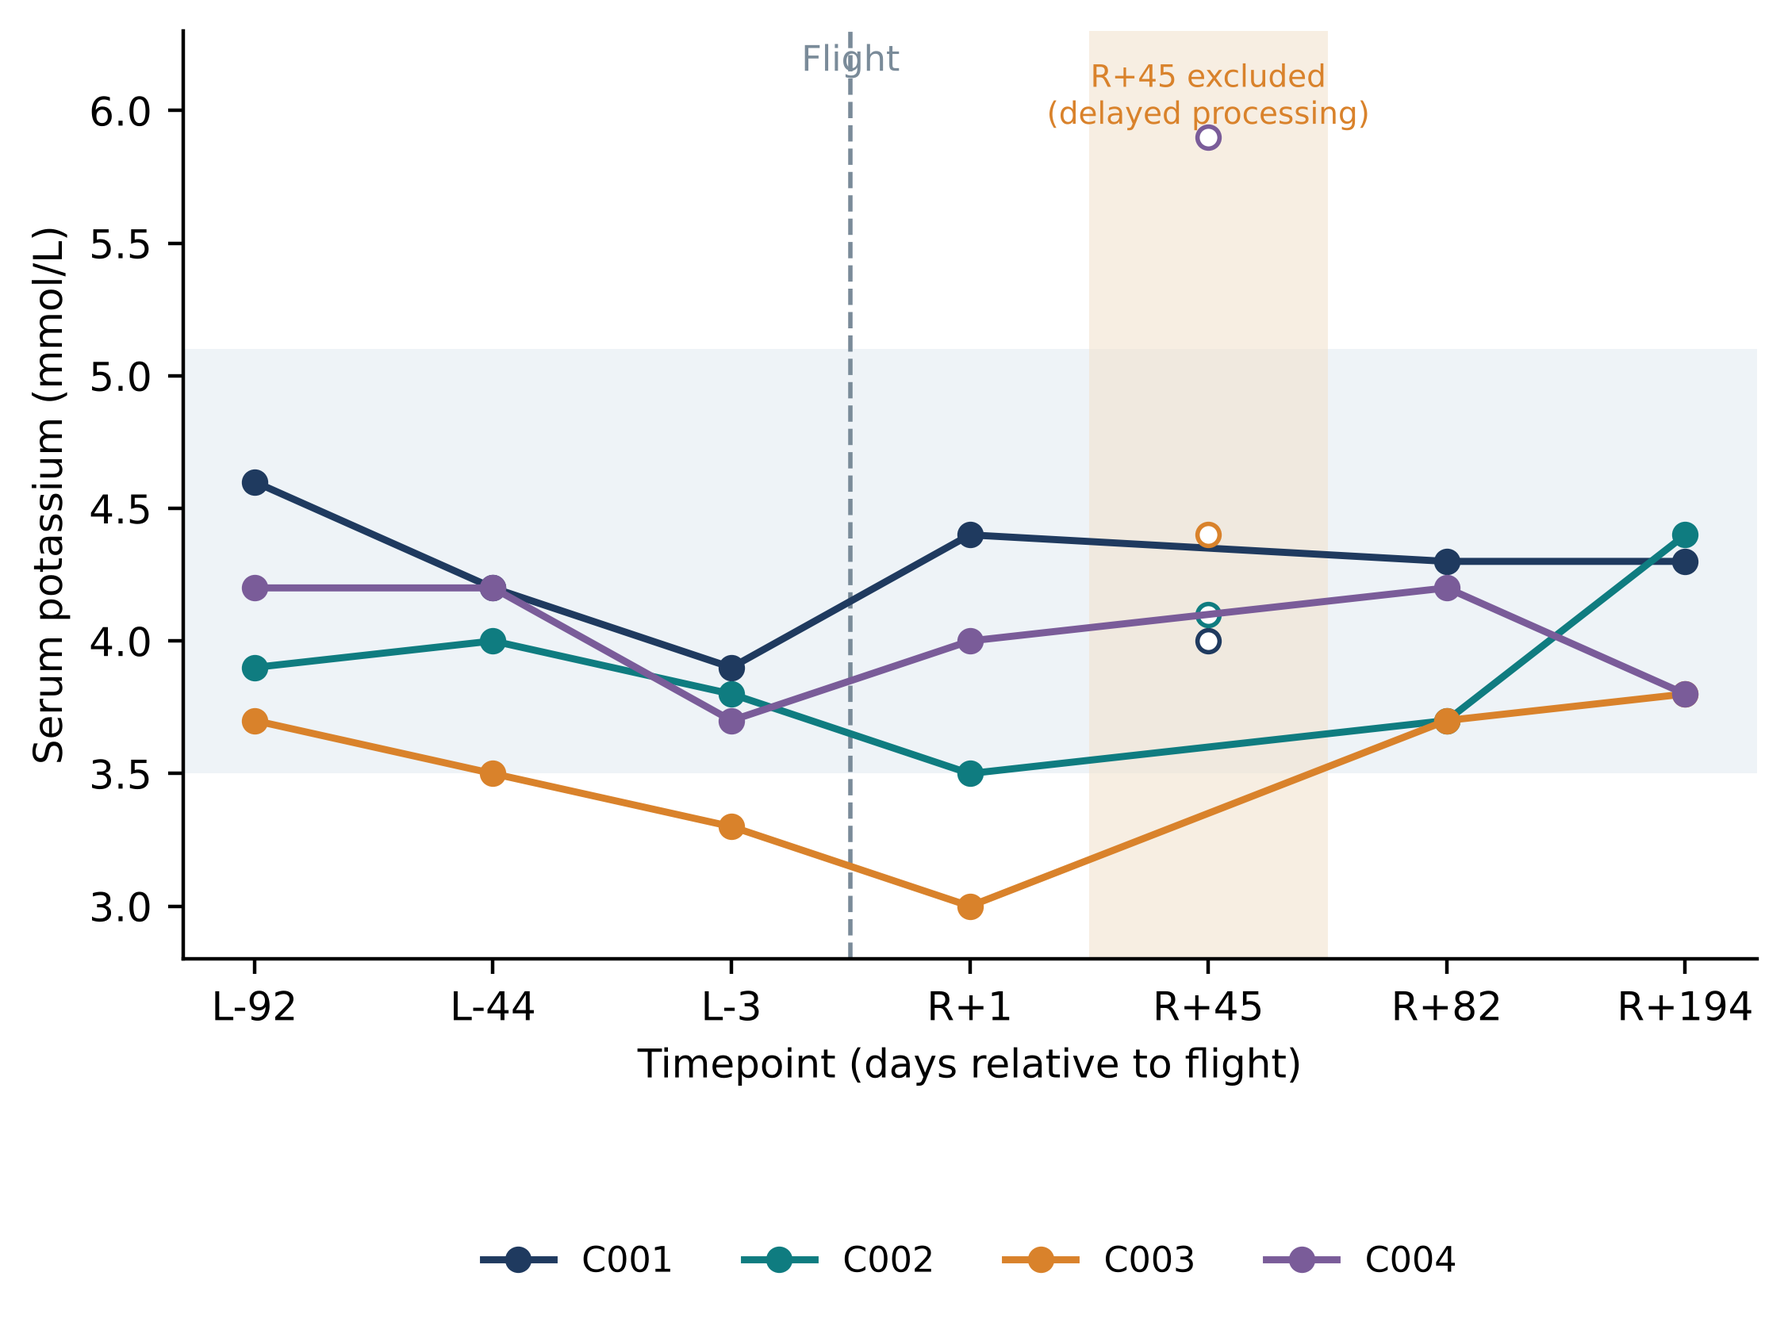
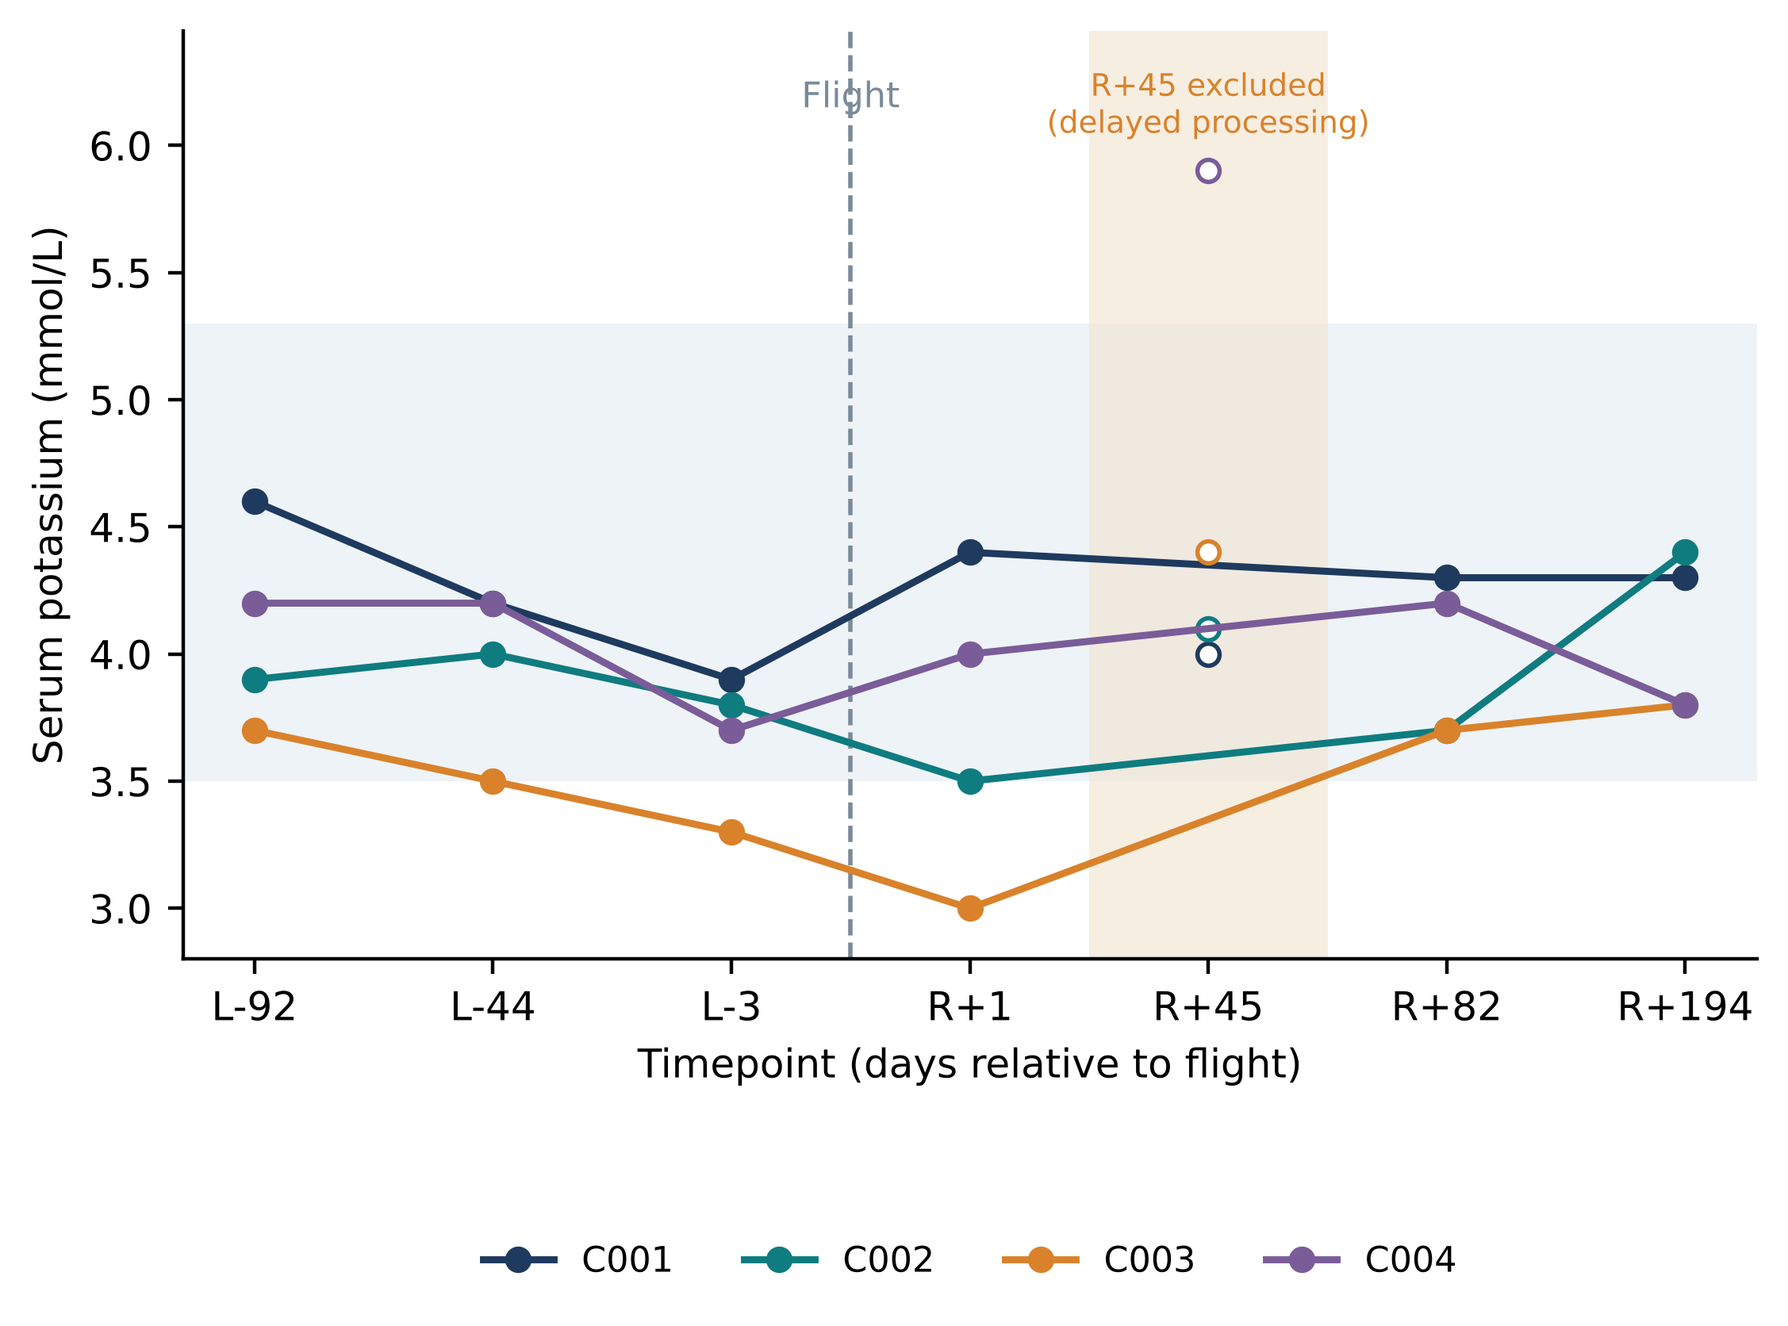
Restrict analysis to the metabolic panel (OSD-575)
Remove NLR and eosinophils (blood count, OSD-569); Holm correction now
across four secondary markers (sodium, chloride, bicarbonate, glucose).
Update title, README, figures and results to match the revised preprint.

Claude-Session: https://claude.ai/code/session_012WKFrLqt4DRjGpV9YDzkto

diff --git a/code/figures.py b/code/figures.py
@@ -20,11 +20,11 @@ def save(fig, name):
 # ---------- Figure 1: hypothesis schematic ----------
 def fig1(lang):
     T = {"en": dict(stress="Acute flight\nstress\n(launch, re-entry,\nreadaptation\nto gravity)", ald="Aldosterone", cor="Cortisol", cat="Catecholamines",
-                    k="Serum potassium\n(primary outcome)", na="Sodium, chloride,\nbicarbonate", glu="Glucose", imm="NLR, eosinophils",
+                    k="Serum potassium\n(primary outcome)", na="Sodium, chloride,\nbicarbonate", glu="Glucose",
                     note="Hormones were not measured in the open dataset: each arm is assessed through its laboratory markers.",
                     a1="renal K⁺ excretion", a2="β2 shift of K⁺ into cells"),
          "es": dict(stress="Estrés agudo\ndel vuelo\n(lanzamiento,\nreentrada,\nreadaptación\na la gravedad)", ald="Aldosterona", cor="Cortisol", cat="Catecolaminas",
-                    k="Potasio sérico\n(desenlace\nprincipal)", na="Sodio, cloro,\nbicarbonato", glu="Glucosa", imm="INL, eosinófilos",
+                    k="Potasio sérico\n(desenlace\nprincipal)", na="Sodio, cloro,\nbicarbonato", glu="Glucosa",
                     note="Las hormonas no se midieron en los datos abiertos: cada vía se evalúa con sus marcadores de laboratorio.",
                     a1="excreción renal de K⁺", a2="paso de K⁺ a las células (β2)")}[lang]
     fig, ax = plt.subplots(figsize=(7.2, 3.9)); ax.axis("off"); ax.set_xlim(0, 10); ax.set_ylim(0, 5.4)
@@ -39,11 +39,10 @@ def fig1(lang):
     box(6.6, 2.0, 2.3, 1.35, T["k"], "#EEF3F7", tc=NAVY, fs=8.5)
     ax.add_patch(FancyBboxPatch((6.6, 2.0), 2.3, 1.35, boxstyle="round,pad=0.02,rounding_size=0.15", fc="none", ec=NAVY, lw=1.6))
     arr(5.3, 4.05, 6.7, 3.15, TEAL); ax.text(6.02, 3.42, T["a1"], fontsize=6.8, color=TEAL, ha="center", rotation=-33, bbox=dict(fc="white", ec="none", pad=0.5))
-    arr(5.3, 1.1, 6.7, 2.25, GREY); ax.text(6.0, 1.82, T["a2"], fontsize=6.8, color=GREY, ha="center", rotation=38, bbox=dict(fc="white", ec="none", pad=0.5))
+    arr(5.3, 1.1, 6.7, 2.25, GREY); ax.text(5.85, 1.45, T["a2"], fontsize=6.8, color=GREY, ha="center", rotation=38, bbox=dict(fc="white", ec="none", pad=0.5))
     box(6.6, 4.05, 2.3, 0.75, T["na"], "white", tc=TEAL, fs=8, bold=False); ax.add_patch(FancyBboxPatch((6.6, 4.05), 2.3, 0.75, boxstyle="round,pad=0.02,rounding_size=0.15", fc="none", ec=TEAL))
     arr(5.3, 4.4, 6.6, 4.4, TEAL)
     box(6.6, 0.45, 1.05, 0.75, T["glu"], "white", tc=ORANGE, fs=8, bold=False); ax.add_patch(FancyBboxPatch((6.6, 0.45), 1.05, 0.75, boxstyle="round,pad=0.02,rounding_size=0.15", fc="none", ec=ORANGE))
-    box(7.8, 0.45, 1.85, 0.75, T["imm"], "white", tc=ORANGE, fs=7.6, bold=False); ax.add_patch(FancyBboxPatch((7.8, 0.45), 1.85, 0.75, boxstyle="round,pad=0.02,rounding_size=0.15", fc="none", ec=ORANGE))
     arr(5.3, 2.5, 6.9, 1.2, ORANGE)
     ax.text(5.0, 0.02, T["note"], ha="center", fontsize=7, color=GREY, style="italic")
     save(fig, f"Fig1_hypothesis_{lang}")
@@ -53,29 +52,29 @@ def fig2(lang):
     L = {"en": dict(y="Serum potassium (mmol/L)", x="Timepoint (days relative to flight)", excl="R+45 excluded\n(delayed processing)", flight="Flight", pre="Preflight", ret="Return"),
          "es": dict(y="Potasio sérico (mmol/L)", x="Momento (días respecto al vuelo)", excl="R+45 excluido\n(procesamiento tardío)", flight="Vuelo", pre="Prevuelo", ret="Regreso")}[lang]
     fig, ax = plt.subplots(figsize=(6.4, 3.8))
-    ax.axvspan(3.5, 4.5, color="#F3E3D0", alpha=0.6, lw=0); ax.text(4.0, 5.95, L["excl"], ha="center", fontsize=7, color=ORANGE)
+    ax.axvspan(3.5, 4.5, color="#F3E3D0", alpha=0.6, lw=0); ax.text(4.0, 6.05, L["excl"], ha="center", fontsize=7, color=ORANGE)
     ax.axvline(2.5, color=GREY, ls="--", lw=1); ax.text(2.5, 6.15, L["flight"], ha="center", fontsize=8, color=GREY)
-    ax.axhspan(3.5, 5.1, color="#EEF3F7", lw=0, zorder=0)
+    ax.axhspan(3.5, 5.3, color="#EEF3F7", lw=0, zorder=0)
     for c, g in d.groupby("crew"):
         g = g.set_index("timepoint").reindex(ORDER)
         xs = [X[t] for t in ORDER]; ys = g["potassium"].values
         ok = [t != "R+45" for t in ORDER]
         ax.plot([x for x, k in zip(xs, ok) if k], [y for y, k in zip(ys, ok) if k], "-o", color=CREW_COL[c], lw=1.6, ms=5, label=c)
         ax.plot(X["R+45"], g.loc["R+45", "potassium"], "o", mfc="white", mec=CREW_COL[c], ms=5)
-    ax.set_xticks(range(7)); ax.set_xticklabels(ORDER); ax.set_ylabel(L["y"]); ax.set_xlabel(L["x"]); ax.set_ylim(2.8, 6.3)
+    ax.set_xticks(range(7)); ax.set_xticklabels(ORDER); ax.set_ylabel(L["y"]); ax.set_xlabel(L["x"]); ax.set_ylim(2.8, 6.45)
     ax.legend(frameon=False, ncol=4, loc="lower center", bbox_to_anchor=(0.5, -0.38), fontsize=8)
     save(fig, f"Fig2_potassium_{lang}")
 
 # ---------- Figure 3: forest plot of return effects (% of preflight mean) ----------
 def fig3(lang):
     names = {"en": {"potassium": "Potassium (primary)", "sodium": "Sodium", "chloride": "Chloride", "bicarbonate": "Bicarbonate",
-                    "glucose": "Glucose", "nlr": "NLR", "eosinophils": "Eosinophils"},
+                    "glucose": "Glucose"},
              "es": {"potassium": "Potasio (principal)", "sodium": "Sodio", "chloride": "Cloro", "bicarbonate": "Bicarbonato",
-                    "glucose": "Glucosa", "nlr": "INL", "eosinophils": "Eosinófilos"}}[lang]
-    L = {"en": dict(x="Change at return (R+1) vs preflight, % of preflight mean (95% CI)", ald="Aldosterone arm", cor="Cortisol arm"),
-         "es": dict(x="Cambio al regreso (R+1) vs prevuelo, % de la media prevuelo (IC 95 %)", ald="Vía de la aldosterona", cor="Vía del cortisol")}[lang]
+                    "glucose": "Glucosa"}}[lang]
+    L = {"en": dict(x="Change at return (R+1) vs preflight, % of preflight mean (95% CI)", ald="Aldosterone pathway (indirect markers)", cor="Acute stress response (non-specific)"),
+         "es": dict(x="Cambio al regreso (R+1) vs prevuelo, % de la media prevuelo (IC 95 %)", ald="Vía de la aldosterona (marcadores indirectos)", cor="Respuesta aguda al estrés (no específico)")}[lang]
     rr = r[r.contrast == "phase2_return"].set_index("marker")
-    order = ["potassium", "sodium", "chloride", "bicarbonate", "glucose", "nlr", "eosinophils"]
+    order = ["potassium", "sodium", "chloride", "bicarbonate", "glucose"]
     rows = []
     for m in order:
         x = rr.loc[m]
@@ -85,7 +84,7 @@ def fig3(lang):
             e, lo, hi = x.est / x.pre_mean * 100, x.lo / x.pre_mean * 100, x.hi / x.pre_mean * 100
         pdisp = x.p if m == "potassium" else x.p_holm
         rows.append((m, e, lo, hi, pdisp, x.arm))
-    fig, ax = plt.subplots(figsize=(6.6, 3.9))
+    fig, ax = plt.subplots(figsize=(6.6, 3.2))
     for i, (m, e, lo, hi, p, arm) in enumerate(rows):
         y = len(rows) - 1 - i
         col = TEAL if arm == "Aldosterone" else ORANGE
@@ -96,17 +95,17 @@ def fig3(lang):
     ax.axvline(0, color=GREY, lw=1)
     ax.set_yticks(range(len(rows))); ax.set_yticklabels([names[m] for m, *_ in rows][::-1])
     ax.set_xlim(-45, 95); ax.set_xlabel(L["x"])
-    ax.text(-44, 6.55, L["ald"], color=TEAL, fontsize=8, fontweight="bold"); ax.text(-44, 2.55, L["cor"], color=ORANGE, fontsize=8, fontweight="bold")
-    ax.axhline(2.5, color="#DDE3E8", lw=0.8)
+    ax.text(-44, 4.45, L["ald"], color=TEAL, fontsize=8, fontweight="bold", va="bottom", bbox=dict(fc="white", ec="none", pad=1), zorder=5); ax.text(-44, 0.52, L["cor"], color=ORANGE, fontsize=8, fontweight="bold", va="bottom", bbox=dict(fc="white", ec="none", pad=1), zorder=5)
+    ax.axhline(0.5, color="#DDE3E8", lw=0.8); ax.set_ylim(-0.6, 4.95)
     save(fig, f"Fig3_forest_{lang}")
 
 # ---------- Figure 4: per-crew change heatmap ----------
 def fig4(lang):
-    names = {"en": ["Potassium", "Sodium", "Chloride", "Bicarbonate", "Glucose", "NLR", "Eosinophils"],
-             "es": ["Potasio", "Sodio", "Cloro", "Bicarbonato", "Glucosa", "INL", "Eosinófilos"]}[lang]
+    names = {"en": ["Potassium", "Sodium", "Chloride", "Bicarbonate", "Glucose"],
+             "es": ["Potasio", "Sodio", "Cloro", "Bicarbonato", "Glucosa"]}[lang]
     L = {"en": dict(cb="Change at R+1 vs own preflight mean (% )", exp="Expected"), "es": dict(cb="Cambio en R+1 vs media prevuelo propia (%)", exp="Esperado")}[lang]
-    vars_ = ["potassium_a", "sodium", "chloride", "bicarbonate", "glucose_a", "nlr", "eosinophils"]
-    expected = ["?", "", "", "↑", "↑", "↑", "↓"]
+    vars_ = ["potassium_a", "sodium", "chloride", "bicarbonate", "glucose_a"]
+    expected = ["?", "↑", "↓", "↑", "↑"]
     crews = ["C001", "C002", "C003", "C004"]
     M = np.zeros((len(vars_), 4))
     for i, v in enumerate(vars_):
@@ -114,12 +113,12 @@ def fig4(lang):
             g = d[d.crew == c]
             pre = g[g.phase == "1_pre"][v].mean(); r1 = g[g.timepoint == "R+1"][v].iloc[0]
             M[i, j] = (r1 - pre) / pre * 100
-    fig, ax = plt.subplots(figsize=(5.2, 3.9))
+    fig, ax = plt.subplots(figsize=(5.2, 3.0))
     lim = 45
     im = ax.imshow(np.clip(M, -lim, lim), cmap="BrBG_r", vmin=-lim, vmax=lim, aspect="auto")
     for i in range(M.shape[0]):
         for j in range(4):
-            ax.text(j, i, f"{M[i, j]:+.0f}", ha="center", va="center", fontsize=8, color="white" if abs(M[i, j]) > 28 else INK)
+            ax.text(j, i, f"{(round(M[i, j]) + 0):+.0f}", ha="center", va="center", fontsize=8, color="white" if abs(M[i, j]) > 28 else INK)
         ax.text(4.0, i, expected[i], ha="center", va="center", fontsize=9, color=NAVY, fontweight="bold")
     ax.set_xticks(list(range(4)) + [4.0]); ax.set_xticklabels(crews + [L["exp"]], fontsize=8)
     ax.set_yticks(range(len(vars_))); ax.set_yticklabels(names)

diff --git a/code/build_dataset.py b/code/build_dataset.py
@@ -1,7 +1,6 @@
-"""Build the analysis dataset from the NASA OSDR Inspiration4 transformed files.
-Inputs (download from the OSDR study pages):
-  LSDS-8_Comprehensive_Metabolic_Panel_CMP_TRANSFORMED.csv  (OSD-575)
-  LSDS-7_Complete_Blood_Count_CBC_TRANSFORMED.csv           (OSD-569)
+"""Build the analysis dataset from the NASA OSDR Inspiration4 metabolic panel.
+Input (download from the OSDR study page OSD-575):
+  LSDS-8_Comprehensive_Metabolic_Panel_CMP_TRANSFORMED.csv
 Output: k_analysis.csv
 """
 import sys
@@ -9,30 +8,17 @@ import numpy as np
 import pandas as pd
 
 cmp_file = sys.argv[1] if len(sys.argv) > 1 else "LSDS-8_Comprehensive_Metabolic_Panel_CMP_TRANSFORMED.csv"
-cbc_file = sys.argv[2] if len(sys.argv) > 2 else "LSDS-7_Complete_Blood_Count_CBC_TRANSFORMED.csv"
 cmp = pd.read_csv(cmp_file, encoding="utf-8-sig")
-cbc = pd.read_csv(cbc_file, encoding="utf-8-sig")
-for d in (cmp, cbc):
-    d["crew"] = d["Sample Name"].str.split("_").str[0]
-    d["timepoint"] = d["Sample Name"].str.split("_").str[2]
+cmp["crew"] = cmp["Sample Name"].str.split("_").str[0]
+cmp["timepoint"] = cmp["Sample Name"].str.split("_").str[2]
 
-c = cmp[["crew", "timepoint"]].copy()
+d = cmp[["crew", "timepoint"]].copy()
 cols = {"potassium": "potassium_value_millimol_per_liter", "sodium": "sodium_value_millimol_per_liter",
         "chloride": "chloride_value_millimol_per_liter", "bicarbonate": "carbon_dioxide_value_millimol_per_liter",
         "glucose": "glucose_value_milligram_per_deciliter", "creatinine": "creatinine_value_milligram_per_deciliter"}
 for k, v in cols.items():
-    c[k] = pd.to_numeric(cmp[v], errors="coerce")
+    d[k] = pd.to_numeric(cmp[v], errors="coerce")
 
-# Absolute counts recalculated as WBC x differential %: corrects a column shift in C003 L-92
-# (reported absolute neutrophils 10.1 cells/uL); reproduces the reported values in the other 27 samples.
-w = cbc["white_blood_cell_count_value_thousand_per_microliter"] * 1000
-b = cbc[["crew", "timepoint"]].copy()
-b["neutrophils"] = w * cbc["neutrophils_value_percent"] / 100
-b["lymphocytes"] = w * cbc["lymphocytes_value_percent"] / 100
-b["eosinophils"] = w * cbc["eosinophils_value_percent"] / 100
-b["nlr"] = cbc["neutrophils_value_percent"] / cbc["lymphocytes_value_percent"]
-
-d = c.merge(b, on=["crew", "timepoint"])
 d["day"] = d.timepoint.map({"L-92": -92, "L-44": -44, "L-3": -3, "R+1": 1, "R+45": 45, "R+82": 82, "R+194": 194})
 d["phase"] = np.where(d.timepoint.str.startswith("L"), "1_pre", np.where(d.timepoint == "R+1", "2_return", "3_recovery"))
 # R+45: delayed serum separation (glucose < 55 mg/dL in 3 of 4 crew, potassium 5.9 mmol/L in one)

diff --git a/README.md b/README.md
@@ -1,17 +1,17 @@
-# Flight stress and serum potassium variation in spaceflight crews: a renin–angiotensin–aldosterone system hypothesis
-# Estrés del vuelo y variación del potasio sérico en tripulaciones espaciales: hipótesis del sistema renina–angiotensina–aldosterona
+# Serum potassium after a 3-day orbital flight
+# Potasio sérico tras un vuelo orbital de 3 días
 
 **English** · [Español](#español)
 
-Data and code for the exploratory secondary analysis *"Serum potassium and laboratory markers of the cortisol–aldosterone response after a 3-day orbital flight: an exploratory secondary analysis of NASA open data from the Inspiration4 civilian crew"*.
+Data and code for the exploratory secondary analysis *"Serum potassium after a 3-day orbital flight: an exploratory secondary analysis of NASA open data from the Inspiration4 civilian crew"*.
 
-**Hypothesis.** Acute flight stress may alter cortisol and aldosterone secretion, and serum potassium would express that change. Hormones are not in the open dataset, so each arm is assessed through its laboratory markers: potassium, sodium, chloride and bicarbonate (aldosterone) and glucose, neutrophil-to-lymphocyte ratio and eosinophils (cortisol).
+**Hypothesis.** Flight stress may modulate the renin–angiotensin–aldosterone system, so that serum potassium varies through its renal handling. Hormones are not in the open dataset, so this hypothesis cannot be tested directly; the metabolic panel provides indirect markers: sodium, chloride and bicarbonate (aldosterone pathway) and glucose (non-specific marker of the acute stress response). Creatinine is analysed as renal context.
 
-**Data.** NASA Open Science Data Repository: OSD-575 (comprehensive metabolic panel) and OSD-569 (complete blood count). Four civilian crew members, seven timepoints, 28 samples.
+**Data.** NASA Open Science Data Repository: OSD-575 (comprehensive metabolic panel). Four civilian crew members, seven timepoints, 28 samples.
 
 | Folder | Content |
 |---|---|
-| `code/build_dataset.py` | Builds `k_analysis.csv` from the two OSDR transformed files and applies the quality rules |
+| `code/build_dataset.py` | Builds `k_analysis.csv` from the OSDR transformed file and applies the quality rule |
 | `code/analysis_potassium.R` | Linear mixed models (random intercept per crew member, Kenward–Roger), Holm correction |
 | `code/figures.py` | Figures 1–4 in English and Spanish |
 | `data/k_analysis.csv` | Analysis dataset |
@@ -20,17 +20,15 @@ Data and code for the exploratory secondary analysis *"Serum potassium and labor
 
 **Reproduce.**
 ```
-python code/build_dataset.py LSDS-8_Comprehensive_Metabolic_Panel_CMP_TRANSFORMED.csv LSDS-7_Complete_Blood_Count_CBC_TRANSFORMED.csv
+python code/build_dataset.py LSDS-8_Comprehensive_Metabolic_Panel_CMP_TRANSFORMED.csv
 Rscript code/analysis_potassium.R
 python code/figures.py
 ```
 Requires R ≥ 4.3 with lme4, lmerTest and pbkrtest; Python 3 with pandas, numpy and matplotlib.
 
-**Data-quality findings.** (1) R+45 samples show delayed serum separation (glucose < 55 mg/dL in 3 of 4 crew; potassium 5.9 mmol/L in one): glucose and potassium at R+45 are excluded. (2) In OSD-569, the absolute leukocyte counts of C003 at L-92 are shifted between columns; all absolute counts are recalculated as total leukocytes × differential %.
+**Data-quality finding.** R+45 samples show delayed serum separation (glucose < 55 mg/dL in 3 of 4 crew; potassium 5.9 mmol/L in one): glucose and potassium at R+45 are excluded.
 
 **Scope.** Exploratory and hypothesis-generating; not preregistered; n = 4. It does not establish causation.
-
-**Related work.** Preregistered NLR analysis of the same crew: medRxiv, doi:10.64898/2026.10.16.26365757.
 
 **Licence.** Code: MIT. Text, figures and derived data: CC BY 4.0.
 
@@ -38,15 +36,15 @@ Requires R ≥ 4.3 with lme4, lmerTest and pbkrtest; Python 3 with pandas, numpy
 
 ## Español
 
-Datos y código del análisis secundario exploratorio *"Potasio sérico y marcadores de laboratorio de la respuesta cortisol–aldosterona tras un vuelo orbital de 3 días"*.
+Datos y código del análisis secundario exploratorio *"Potasio sérico tras un vuelo orbital de 3 días: análisis secundario exploratorio de datos abiertos de la NASA de la tripulación civil de Inspiration4"*.
 
-**Hipótesis.** El estrés agudo del vuelo puede alterar la secreción de cortisol y aldosterona, y el potasio sérico sería la expresión de ese cambio. Las hormonas no están en los datos abiertos, por lo que cada vía se evalúa con sus marcadores de laboratorio: potasio, sodio, cloro y bicarbonato (aldosterona) y glucosa, índice neutrófilo-linfocito y eosinófilos (cortisol).
+**Hipótesis.** El estrés del vuelo podría modular el sistema renina–angiotensina–aldosterona, de modo que el potasio sérico varíe a través de su manejo renal. Las hormonas no están en los datos abiertos, por lo que esta hipótesis no puede probarse directamente; el panel metabólico ofrece marcadores indirectos: sodio, cloro y bicarbonato (vía de la aldosterona) y glucosa (marcador no específico de la respuesta aguda al estrés). La creatinina se analiza como contexto renal.
 
-**Datos.** Open Science Data Repository de la NASA: OSD-575 (panel metabólico completo) y OSD-569 (biometría hemática). Cuatro tripulantes civiles, siete momentos, 28 muestras.
+**Datos.** Open Science Data Repository de la NASA: OSD-575 (panel metabólico completo). Cuatro tripulantes civiles, siete momentos, 28 muestras.
 
 | Carpeta | Contenido |
 |---|---|
-| `code/build_dataset.py` | Construye `k_analysis.csv` a partir de los dos archivos transformados del OSDR y aplica las reglas de calidad |
+| `code/build_dataset.py` | Construye `k_analysis.csv` a partir del archivo transformado del OSDR y aplica la regla de calidad |
 | `code/analysis_potassium.R` | Modelos lineales mixtos (intercepto aleatorio por tripulante, Kenward–Roger), corrección de Holm |
 | `code/figures.py` | Figuras 1–4 en inglés y español |
 | `data/k_analysis.csv` | Conjunto de datos de análisis |
@@ -55,11 +53,9 @@ Datos y código del análisis secundario exploratorio *"Potasio sérico y marcad
 
 **Reproducir.** Mismos comandos que en la sección en inglés.
 
-**Hallazgos de calidad.** (1) Las muestras de R+45 muestran separación tardía del suero (glucosa < 55 mg/dL en 3 de 4 tripulantes; potasio de 5.9 mmol/L en uno): se excluyen glucosa y potasio en R+45. (2) En OSD-569, los recuentos absolutos de leucocitos de C003 en L-92 están desplazados entre columnas; todos los recuentos absolutos se recalculan como leucocitos totales × porcentaje.
+**Hallazgo de calidad.** Las muestras de R+45 muestran separación tardía del suero (glucosa < 55 mg/dL en 3 de 4 tripulantes; potasio de 5.9 mmol/L en uno): se excluyen glucosa y potasio en R+45.
 
 **Alcance.** Exploratorio y generador de hipótesis; no prerregistrado; n = 4. No establece causalidad.
-
-**Trabajo relacionado.** Análisis prerregistrado del INL en la misma tripulación: medRxiv, doi:10.64898/2026.10.16.26365757.
 
 **Licencia.** Código: MIT. Texto, figuras y datos derivados: CC BY 4.0.
 
